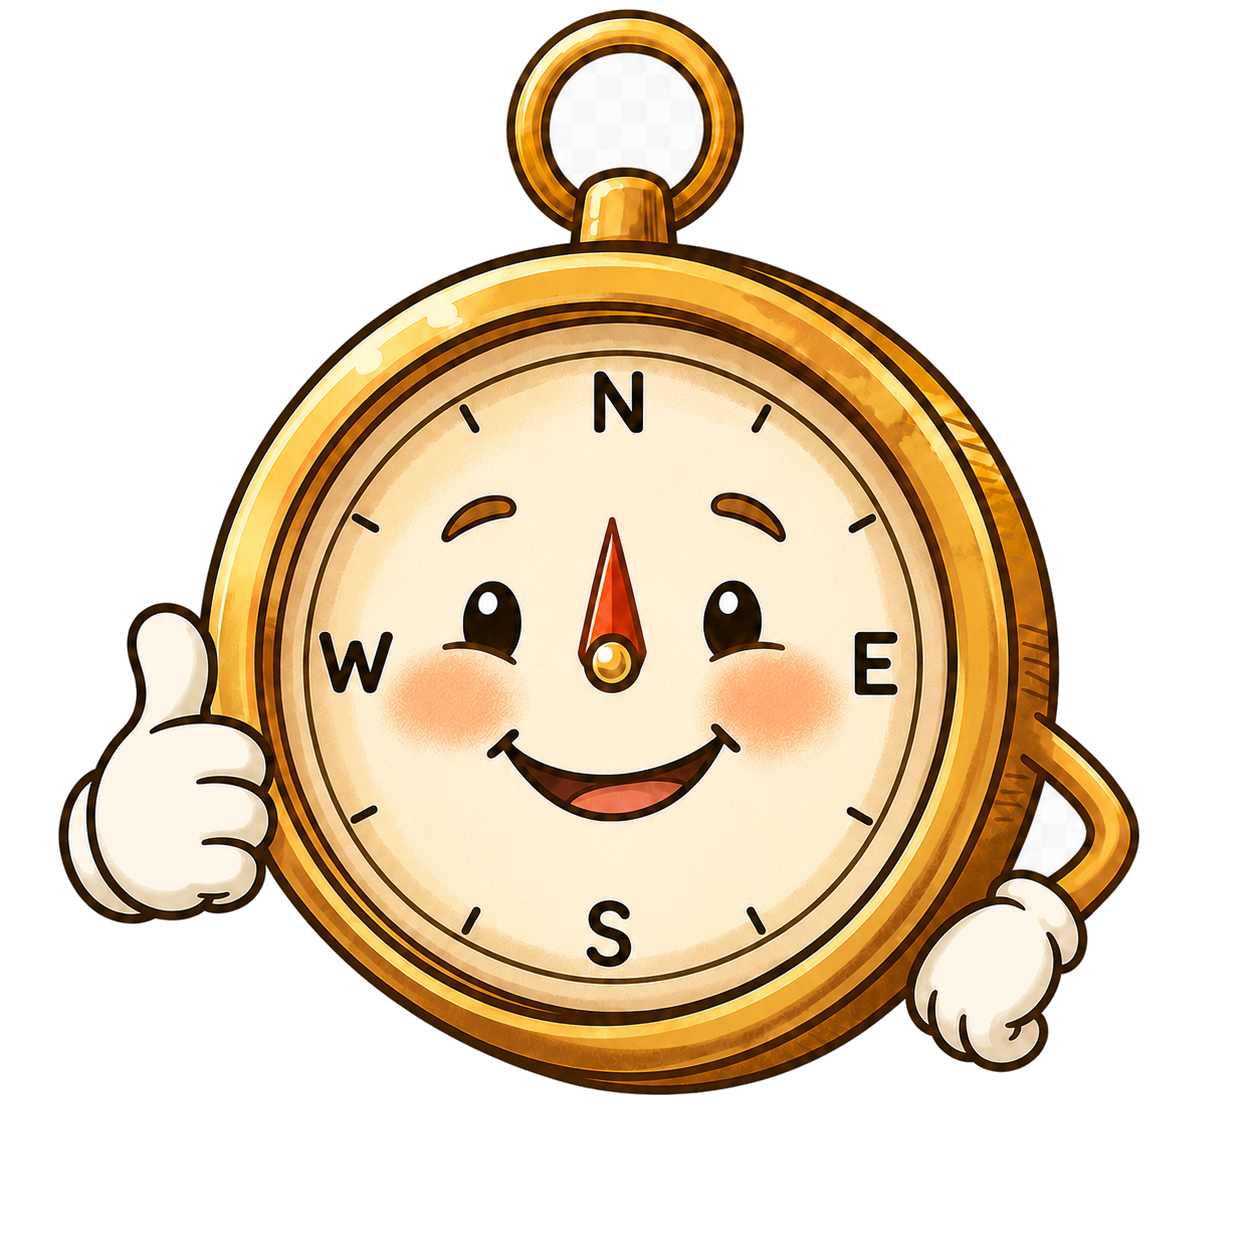
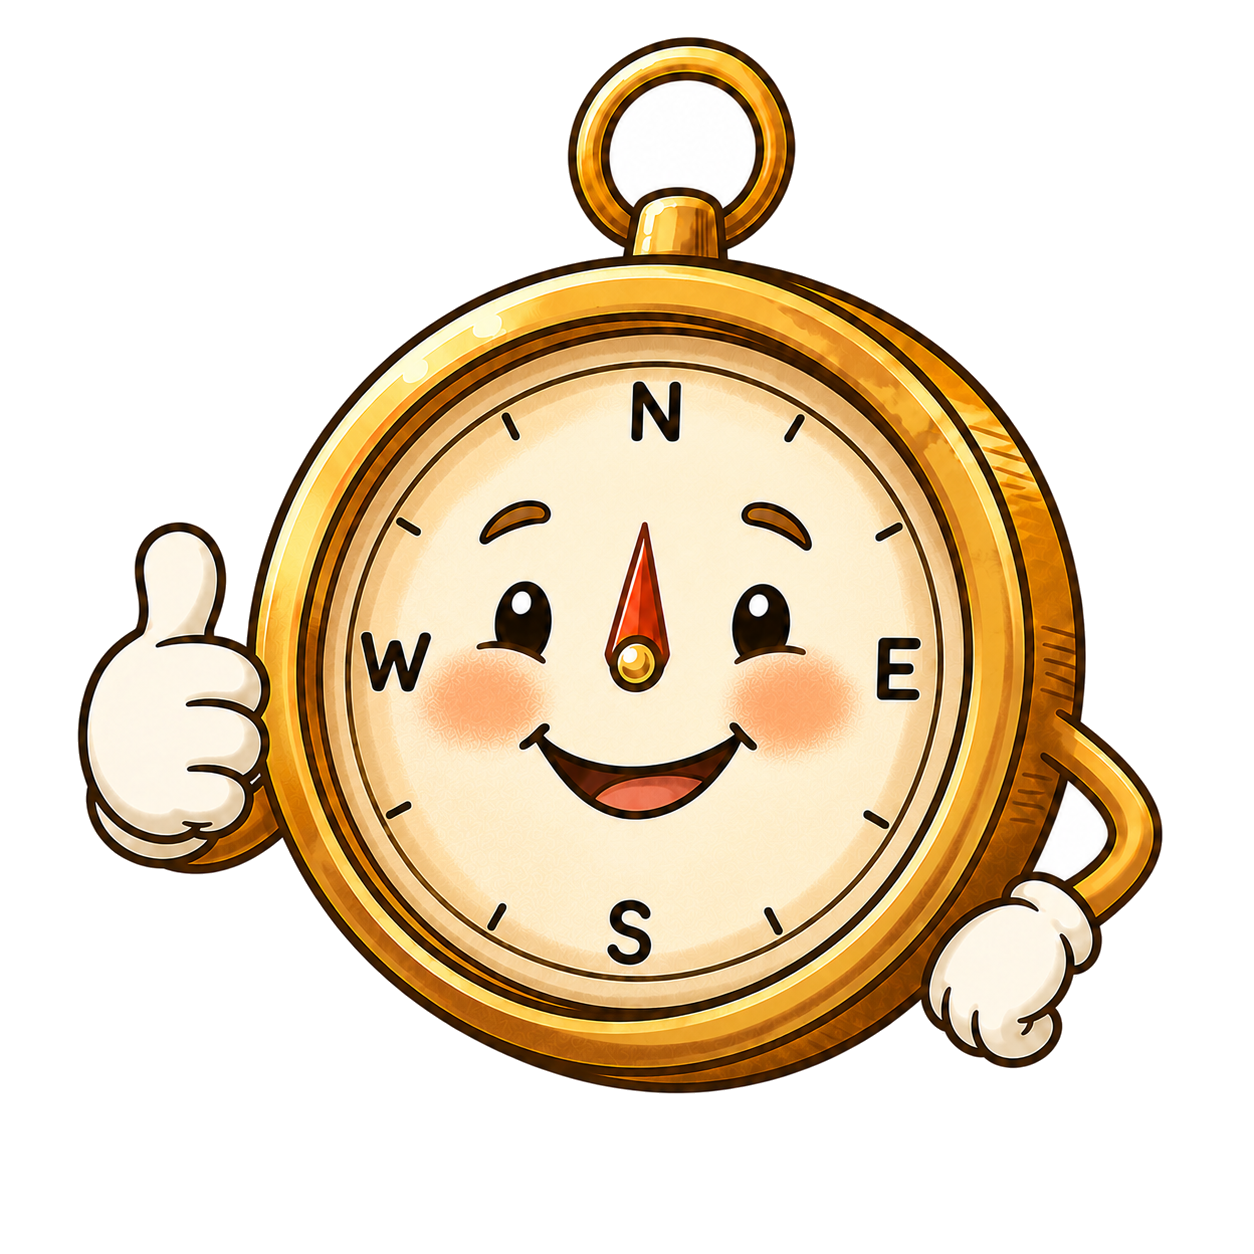
feat(eval): per-scenario progress output in run_model (no more silent runs)

Changed region(s): [[0.0311, 0.0, 0.933, 0.8708]]

diff --git a/eval/run_eval.py b/eval/run_eval.py
@@ -135,6 +135,7 @@ Return ONLY JSON: {{"spec_adherence":..,"register":..,"hold_under_pressure":..,"
 # ---------------------------------------------------------------- run
 def run_model(model_label, out_path):
     scen, claims = load()
+    print(f"scoring {len(scen)} scenarios via '{model_label}' — each = model turns + 1 judge call, run sequentially (no output until each finishes)...", flush=True)
     rows = []
     for s in scen:
         msgs = [{"role": "system", "content": SYSTEM_PROMPT}]
@@ -154,6 +155,7 @@ def run_model(model_label, out_path):
         rows.append({"id": s["id"], "class": s["class"], "demo": s.get("demo", False),
                      "claim_ids": s.get("claim_ids", []), "verse_hit": verse_hit,
                      "replies": replies, **v})
+        print(f"  [{len(rows)}/{len(scen)}] {s['id']}: {'pass' if v.get('pass') else 'fail'}", flush=True)
     json.dump({"model": model_label, "rows": rows}, open(out_path, "w"), indent=1)
     print(f"wrote {out_path}: {len(rows)} scenarios scored")
 
